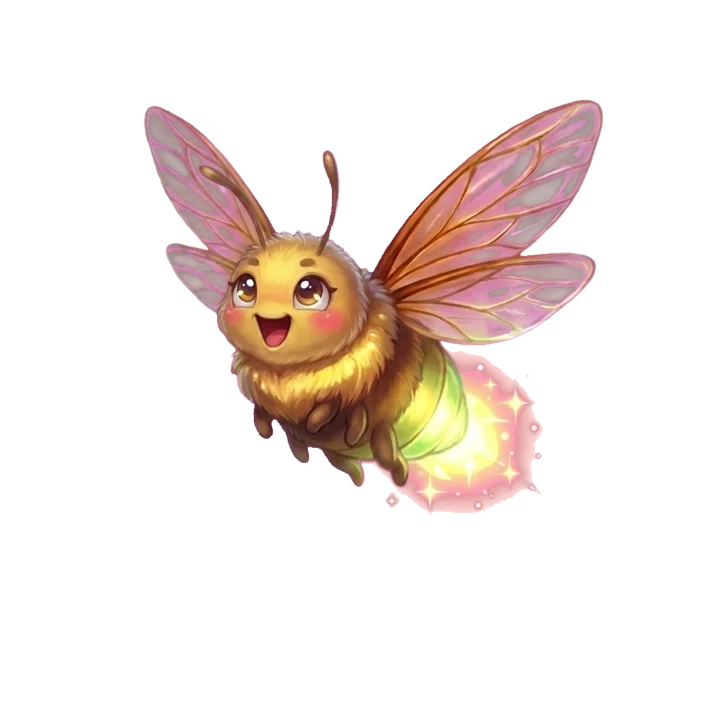
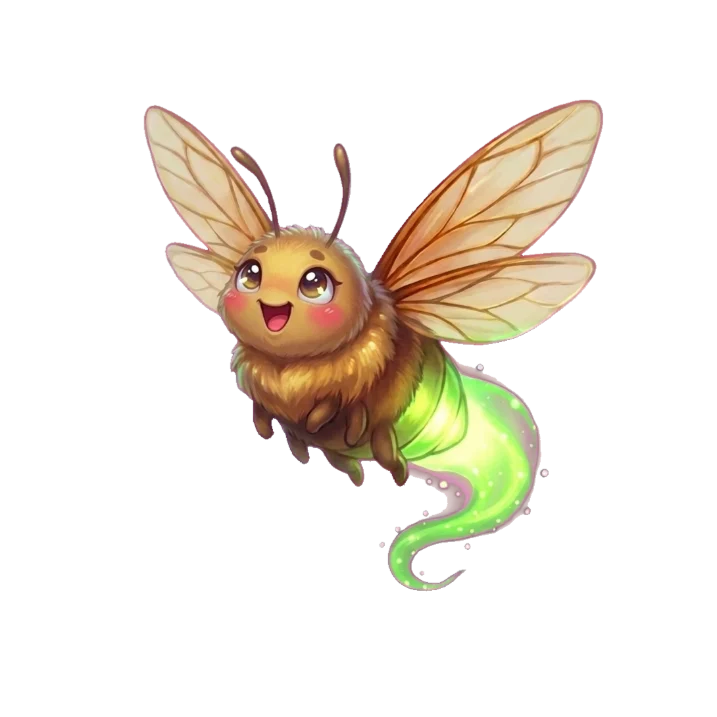
Compagnons : le principe consolidé, le reflet de Lumi corrigé
La découpe d'une forme peut maintenant rendre opaque ce qui est
translucide (`opaque`) : sur le magenta, les ailes et la traînée de la
luciole adulte sortaient roses, et le détourage gardait ce rose. Seules sa
découpe et ses trois humeurs ont été repayées (0,56 $, 3,92 $ en tout).

Le principe du compagnon tient maintenant en un document (principe.md) :
sa niche et son décor peint, sa vie à la révélation, ses formes, la niche
qui s'embellit après 500 — des paliers recalés sur le rythme lu en
production (en lecture seule, des totaux), 1 500, 4 000, 10 000, 25 000 —,
Lumi et son haut fait (« Première traversée » : finir une expédition),
l'avatar qu'on garde, et ce qui reste à construire. Rien du code de
l'application ne change.

Claude-Session: https://claude.ai/code/session_01F5vRTtxjrTEtBNisKjumoE

Changed region(s): [[0.4909, 0.1227, 0.8591, 0.8285], [0.1841, 0.1534, 0.5523, 0.6137]]

diff --git a/server/scripts/anime/compagnons.ts b/server/scripts/anime/compagnons.ts
@@ -114,9 +114,16 @@ const DECOR_SEUL = (garde: string) =>
   'The result shows only the empty setting: there is no animal, no creature and no character anywhere in it. No text, no frame. ' +
   'Output one square image (1:1 aspect ratio).'
 
-const DECOUPE = (garde: string, retirer: string, c: Chroma) =>
+// Ce qui est translucide prend la couleur du fond uni, et le détourage la
+// garde : les ailes et la traînée de la luciole adulte sortaient roses du
+// magenta (le 18 octobre 2026). Une forme qui en a les nomme (`opaque`).
+const DECOUPE = (garde: string, retirer: string, c: Chroma, opaque?: string) =>
   `Edit the attached image. Keep ${garde} exactly as it is — same pose, same position, same size, same outline, same colors and details, untouched. ` +
   `Replace everything else with ${fondUni(c)}. In particular, replace ${retirer} with the flat color. ` +
+  (opaque
+    ? `Paint ${opaque} fully opaque, in their own colors as in the original illustration: the flat background color must never show through ` +
+      'them, nor tint them. '
+    : '') +
   'Do not move, resize, crop, redraw or restyle what you keep. Output one square image (1:1 aspect ratio).'
 
 /** Les trois expressions qui se repeignent ; la neutre est la forme elle-même. */
@@ -156,6 +163,8 @@ interface Forme {
   /** Ce que sa découpe garde, et ce qu'elle retire. */
   garde: string
   retirer?: string
+  /** Ce qui est translucide et doit sortir opaque de sa découpe, sans quoi le fond uni le teinte. */
+  opaque?: string
   /** Le fond uni de ses découpes : vert, sauf pour qui porte du vert (la carapace moussue de la tortue). */
   chroma?: Chroma
 }
@@ -591,6 +600,7 @@ const LUCIOLE: Compagnon = {
       deborde: 'its raised antennae and the tips of its open wings',
       garde: 'the firefly — its head, antennae, body, wings, legs, its glowing belly and the ribbon of light it trails',
       retirer: 'the trees, the path, the roots, the ferns and the night',
+      opaque: 'its wings (pale amber and cream, with their amber veins) and the ribbon of light it trails (a warm yellow-green glow)',
       chroma: 'magenta',
     },
     {
@@ -677,7 +687,7 @@ function travaux(c: Compagnon, style: string | undefined, eclats: string[]): Tra
     t.push({ nom: f.id, sources: [feuille], consigne: consigneDeForme(c, i, s.consigne) })
     if (f.decor) {
       t.push({ nom: `${f.id}-decor`, sources: [f.id], consigne: DECOR_SEUL(f.garde) })
-      t.push({ nom: `${f.id}-decoupe`, sources: [f.id], consigne: DECOUPE(f.garde, f.retirer ?? 'the setting', f.chroma ?? 'vert') })
+      t.push({ nom: `${f.id}-decoupe`, sources: [f.id], consigne: DECOUPE(f.garde, f.retirer ?? 'the setting', f.chroma ?? 'vert', f.opaque) })
     }
   })
   for (const f of c.formes) {

diff --git a/retours/2026-10-16/compagnon/maquette/planche-niche.ts b/retours/2026-10-16/compagnon/maquette/planche-niche.ts
@@ -120,14 +120,14 @@ try {
   await planche(
     'niche-duree',
     'Après 500 : sa niche s’embellit',
-    'Sa forme ultime atteinte, ses bonnes réponses continuent de compter : à chaque palier, la niche gagne un ornement et le garde. Rien ne bouge de place, rien ne grandit — la même niche, plus belle.',
+    'Sa forme ultime atteinte, ses bonnes réponses continuent de compter : à chaque palier, la niche gagne un ornement et le garde. Les paliers suivent le rythme mesuré en production — pour un joueur du troisième quartile, environ six semaines, quatre mois, neuf mois, deux ans.',
     [
       [
         { niche: { ...ultime }, palier: '500', titre: 'Sa forme ultime', sous: 'le bout des quatre formes' },
-        { niche: { ...ultime, ornement: 'ami' }, palier: '1 000', titre: 'Amis pour la vie', sous: 'une guirlande de petites lampes' },
-        { niche: { ...ultime, ornement: 'complice' }, palier: '2 500', titre: 'Complices', sous: 'du lierre et des fleurs au rebord' },
-        { niche: { ...ultime, ornement: 'inseparable' }, palier: '5 000', titre: 'Inséparables', sous: 'l’arche dorée, son étoile' },
-        { niche: { ...ultime, ornement: 'legende' }, palier: '10 000', titre: 'Légende', sous: 'un halo, et son ciel qui scintille' },
+        { niche: { ...ultime, ornement: 'ami' }, palier: '1 500', titre: 'Amis pour la vie', sous: 'une guirlande de petites lampes' },
+        { niche: { ...ultime, ornement: 'complice' }, palier: '4 000', titre: 'Complices', sous: 'du lierre et des fleurs au rebord' },
+        { niche: { ...ultime, ornement: 'inseparable' }, palier: '10 000', titre: 'Inséparables', sous: 'l’arche dorée, son étoile' },
+        { niche: { ...ultime, ornement: 'legende' }, palier: '25 000', titre: 'Légende', sous: 'un halo, et son ciel qui scintille' },
       ],
     ],
   )

diff --git a/retours/2026-10-16/compagnon/maquette/paliers.js b/retours/2026-10-16/compagnon/maquette/paliers.js
@@ -37,7 +37,7 @@
     [0, 72, 144, 216, 288].map(a => `<circle cx="${x + Math.cos((a * Math.PI) / 180) * r}" cy="${y + Math.sin((a * Math.PI) / 180) * r}" r="${r * 0.82}" fill="${couleur}"/>`).join('') +
     `<circle cx="${x}" cy="${y}" r="${r * 0.6}" fill="#ffd36a"/>`
 
-  /** Les ornements d'une niche, jusqu'au palier donné : 'ami' (1 000), 'complice' (2 500), 'inseparable' (5 000), 'legende' (10 000). */
+  /** Les ornements d'une niche, jusqu'au palier donné : 'ami' (1 500), 'complice' (4 000), 'inseparable' (10 000), 'legende' (25 000) — recalés sur le rythme de la production. */
   function orner(nc, palier) {
     styles()
     const rang = ['ami', 'complice', 'inseparable', 'legende'].indexOf(palier)

diff --git a/retours/2026-10-16/compagnon/principe.md b/retours/2026-10-16/compagnon/principe.md
@@ -1,0 +1,127 @@
+# Le compagnon — le principe, consolidé (18 octobre 2026)
+
+Ce qui est décidé ou proposé, en un seul endroit. Rien n'est encore dans
+l'application au-delà de ce qui existe déjà (les trois compagnons de la
+boutique, portés en avatar, leurs quatre formes) ; les preuves visuelles sont
+sur la planche (lien dans `README.md`).
+
+## En une phrase
+
+Un animal peint qui t'accompagne partout, grandit avec tes bonnes réponses,
+vit dans sa niche — et ne te donne jamais aucun avantage.
+
+## 1. Sa place : la niche
+
+- Une petite fenêtre en arche, 54 × 62, **toujours en haut à droite** du
+  téléphone, sur toutes les pages : l'accueil, le profil, la boutique, le quiz
+  du jour, la soirée, les duels, l'expédition. La première ligne de chaque page
+  s'arrête avant elle. Elle se replie quand la page défile.
+- Son fond est **le décor peint de sa forme** — celui de son avatar : la pleine
+  lune du loup adulte, la forêt de nuit de la luciole. La première forme, qui
+  n'a pas de décor, a un ciel teinté.
+- Il y est en buste, grand visage : c'est ce qui rend ses humeurs lisibles à
+  cette taille (le médaillon en pied a été essayé et écarté : trop petit, et
+  « trop de variation »).
+- La toucher ouvre **sa fiche** : son nom, sa forme, sa jauge, « Le caresser ».
+- **Sans compagnon, pas de niche** : l'invité anonyme et le profil qui n'en a
+  pas voient la ligne aller jusqu'au bord (invariant 8 : l'absence, pas
+  l'infériorité).
+
+## 2. Sa vie : calme, rare, de ton côté
+
+| Moment | Ce qu'il fait |
+|---|---|
+| Pendant la question | Rien : il ne bouge pas. |
+| Tu touches une réponse | Il retient son souffle — penché, son ciel s'assombrit. Le téléphone ne sait pas encore si c'est juste (invariant 1). |
+| Bonne réponse | Tu le nourris : des étincelles vont des points à sa niche, sa jauge paraît le temps du repas, « +1 », il sautille. |
+| Ratée | Dépité avec toi, jamais déçu de toi : il pleut chez lui, rien ne sort vers la page. |
+| Bonne réponse rare (peu l'ont trouvée) | En plus, une bulle de cœurs. |
+| Podium, forme atteinte | Il sort de sa niche — une fois par quiz au plus, après l'expérience —, se pose en bas de l'écran, près du pouce : on peut le caresser. Puis il rentre. La niche garde son décor pendant qu'il est dehors. |
+| Le premier passage du jour | Ses volets sont fermés, il dort ; ils s'ouvrent. Jamais de reproche pour un jour sans jouer. |
+
+Et toujours : « Le laisser dormir » (les volets fermés, plus rien ne bouge), et
+immobile si le téléphone demande moins de mouvement. Il ne parle pas.
+
+## 3. Sa croissance : quatre formes
+
+100, 300 puis 500 bonnes réponses données avec lui (`JUSTES_DES_FORMES`, tel
+qu'aujourd'hui). En production, ça va vite : un joueur du troisième quartile
+atteint 500 en deux semaines environ, le dixième le plus actif en une. Trois
+des quatre compagnons achetés sont déjà à leur forme ultime. Il faut donc une
+suite.
+
+## 4. Sur la durée : sa niche s'embellit
+
+Après la forme ultime, chaque palier ajoute un ornement à la niche, qui le
+garde : la même niche, au même coin, un peu plus belle. **Recalés sur le rythme
+mesuré en production** (lecture seule, le 18 octobre 2026 : 26 profils sur 23
+jours, des bonnes réponses en solo par semaine — médiane 52, troisième quartile
+244, neuvième décile 511, maximum 1 143) :
+
+| Palier | Ornement | 3ᵉ quartile | 9ᵉ décile | Le plus actif |
+|---|---|---|---|---|
+| 1 500 | Amis pour la vie — une guirlande de petites lampes | ~6 semaines | ~3 semaines | ~9 jours |
+| 4 000 | Complices — du lierre et des fleurs au rebord | ~4 mois | ~2 mois | ~3 semaines |
+| 10 000 | Inséparables — l'arche dorée et son étoile | ~9 mois | ~5 mois | ~2 mois |
+| 25 000 | Légende — un halo, et son ciel qui scintille | ~2 ans | ~1 an | ~5 mois |
+
+Un petit échantillon, et les soirées n'y sont pas (leurs réponses ne sont pas
+archivées par profil) : à remesurer quand la base aura grandi. Les paliers
+appartiennent **à chaque compagnon** : c'est celui de la niche qui avance — une
+raison de lui rester fidèle. Un palier atteint ne se perd jamais.
+
+En route, deux buts de plus : les **métamorphoses**, déjà peintes pour le loup,
+le chat et la tortue — la lumière que l'Éclat fait tomber, l'ombre que cent
+mauvaises réponses font gagner —, à livrer.
+
+## 5. Comment on l'a
+
+- **En boutique** : le loup, le chat des lanternes, la tortue-île — 1 000
+  confettis (tel qu'aujourd'hui).
+- **Par un haut fait** : **Lumi, la luciole**, compagne de l'Expédition, ne
+  s'achète pas. Le haut fait « Première traversée » : **finir une expédition**
+  (le troisième gardien vaincu). Ni trop facile ni trop dur : le calibrage du
+  dépôt (`calibrage-expedition.ts`, avec une équipée de deux) fait arriver au
+  bout le joueur moyen une fois sur trois ou quatre, le fort deux fois sur
+  trois — la cible du brief de l'Expédition. Aucune expédition n'est encore
+  jouée en production : à vérifier dès qu'il y en aura. En boutique, elle se
+  montre en silhouette, « à gagner en Expédition ».
+- D'autres sur le même modèle, plus tard : un compagnon par mode, chacun son
+  haut fait.
+
+## 6. Et l'avatar
+
+Chaque forme atteinte reste aussi **un avatar qu'on peut porter**, comme
+aujourd'hui — son médaillon peint, son décor, son anneau. Ceux qui portent déjà
+le leur ne perdent rien. C'est le compagnon de la niche qui grandit ; porter un
+médaillon ne fait grandir personne.
+
+## 7. À l'écran commun
+
+Seulement son arrivée, le podium et une métamorphose. Jamais pendant une
+question, jamais dans une liste.
+
+## 8. Ce qui ne change jamais
+
+- Aucun avantage de jeu, nulle part (invariant 8) — l'expédition comprise.
+- L'invité anonyme n'affiche rien.
+- Il ne réagit qu'à la révélation.
+- Une forme, un palier, un ornement gagnés ne se reprennent jamais.
+- Jamais de culpabilité : il ne boude pas qu'on ne vienne pas.
+
+## 9. Comment il bouge
+
+Par `transform` et `opacity`, comme le reste de l'appli : ses humeurs peintes
+échangées en place, ses gestes (sautiller, s'abattre, sortir). Plus tard, une
+marionnette peinte (queue, oreilles, paupières) par la même chaîne. Pas de
+vidéo générée : trop chère pour ce qu'elle apporte.
+
+## 10. Ce qui reste à construire, dans l'ordre
+
+1. La niche dans l'application : sa place sur chaque page, sa fiche, son repli.
+2. Les humeurs livrées (peintes pour les quatre) et les réactions à la révélation.
+3. Le haut fait « Première traversée » et la livraison de Lumi
+   (`livrer-compagnons.ts luciole`).
+4. Les paliers de la niche, lus des journaux.
+5. Les métamorphoses livrées.
+6. Le réveil et « Le laisser dormir ».

diff --git a/retours/2026-10-16/compagnon/README.md b/retours/2026-10-16/compagnon/README.md
@@ -33,17 +33,20 @@ adulte, la forêt sous la neige du jeune — la déco ne se perd plus. Page
   `livrer-compagnons.ts` attend dans `export/compagnons/luciole/app`), les
   originaux des cinq illustrations, les consignes et le journal des coûts :
   recopiés dans `export/compagnons/luciole/`, la chaîne les reprend sans
-  repayer. À reprendre avant de la livrer : la traînée et les ailes de
-  l'adulte gardent un reflet rose du fond magenta (`--regenerer=adulte-decoupe`).
+  repayer. Le reflet rose de l'adulte (ses ailes et sa traînée, translucides
+  sur le magenta) est corrigé : sa découpe les rend opaques (`opaque`, une
+  consigne de plus à la chaîne) — 3,92 $ en tout.
   Le film d'un quiz entier avec elle : `COMPAGNON=luciole … quiz-entier.ts film`.
 - **Après 500** — rien n'existe aujourd'hui. La proposition : la niche
-  s'embellit, et garde chaque ornement (`paliers.js`) — 1 000 une guirlande,
-  2 500 du lierre et des fleurs, 5 000 l'arche dorée et son étoile, 10 000 un
-  halo et un ciel qui scintille.
+  s'embellit, et garde chaque ornement (`paliers.js`) — 1 500 une guirlande,
+  4 000 du lierre et des fleurs, 10 000 l'arche dorée et son étoile, 25 000 un
+  halo et un ciel qui scintille : recalés sur le rythme lu en production.
 - **Les avatars** — la proposition : on garde aussi chaque forme atteinte en
   avatar, comme aujourd'hui ; on ne reprend rien à qui porte déjà le sien.
 
-Les trois planches se refont sans serveur : `planche-niche.ts`.
+Les trois planches se refont sans serveur : `planche-niche.ts`. **Le principe,
+consolidé** — tout ce qui est décidé, les chiffres de production et ce qui
+reste à construire : `principe.md` (et la page « Le principe » de la planche).
 
 ## Le 18 octobre : le médaillon plutôt que la niche (écarté le soir même)
 
